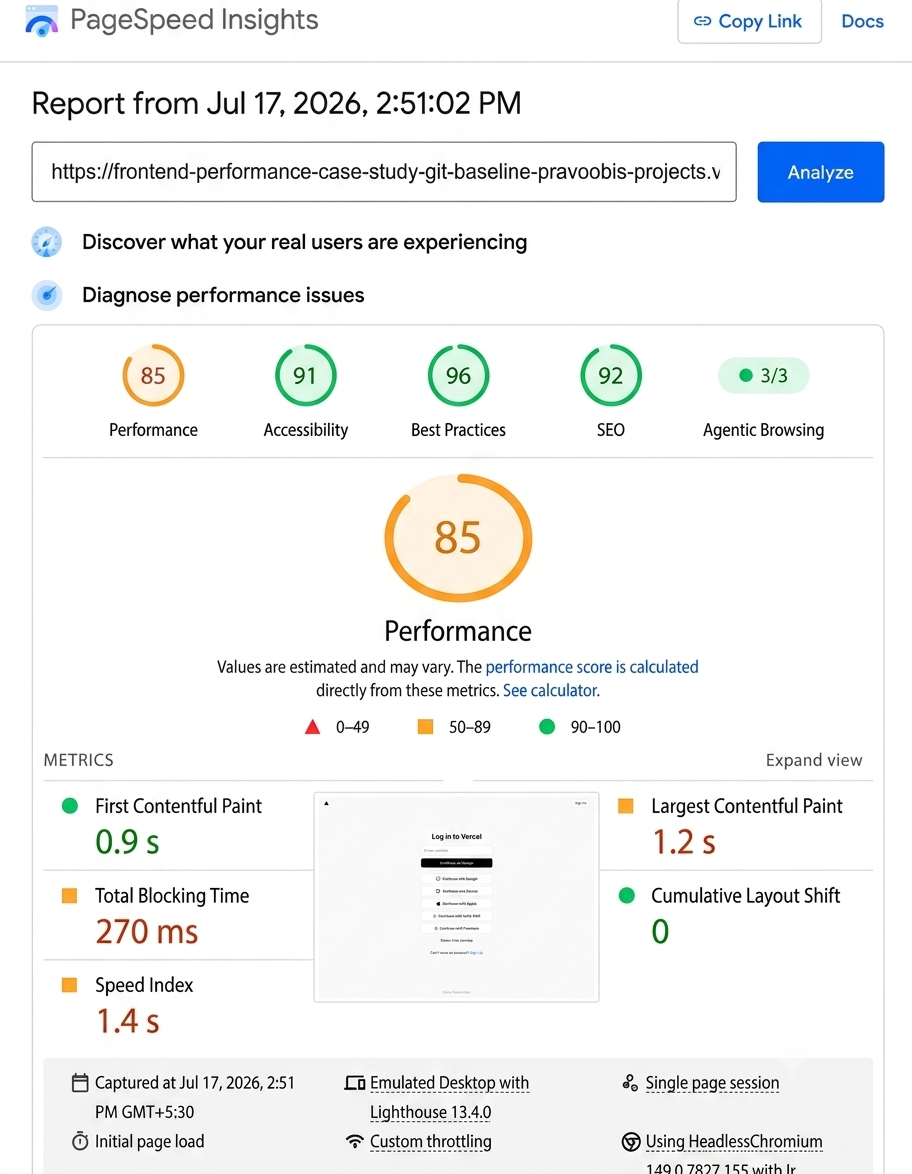
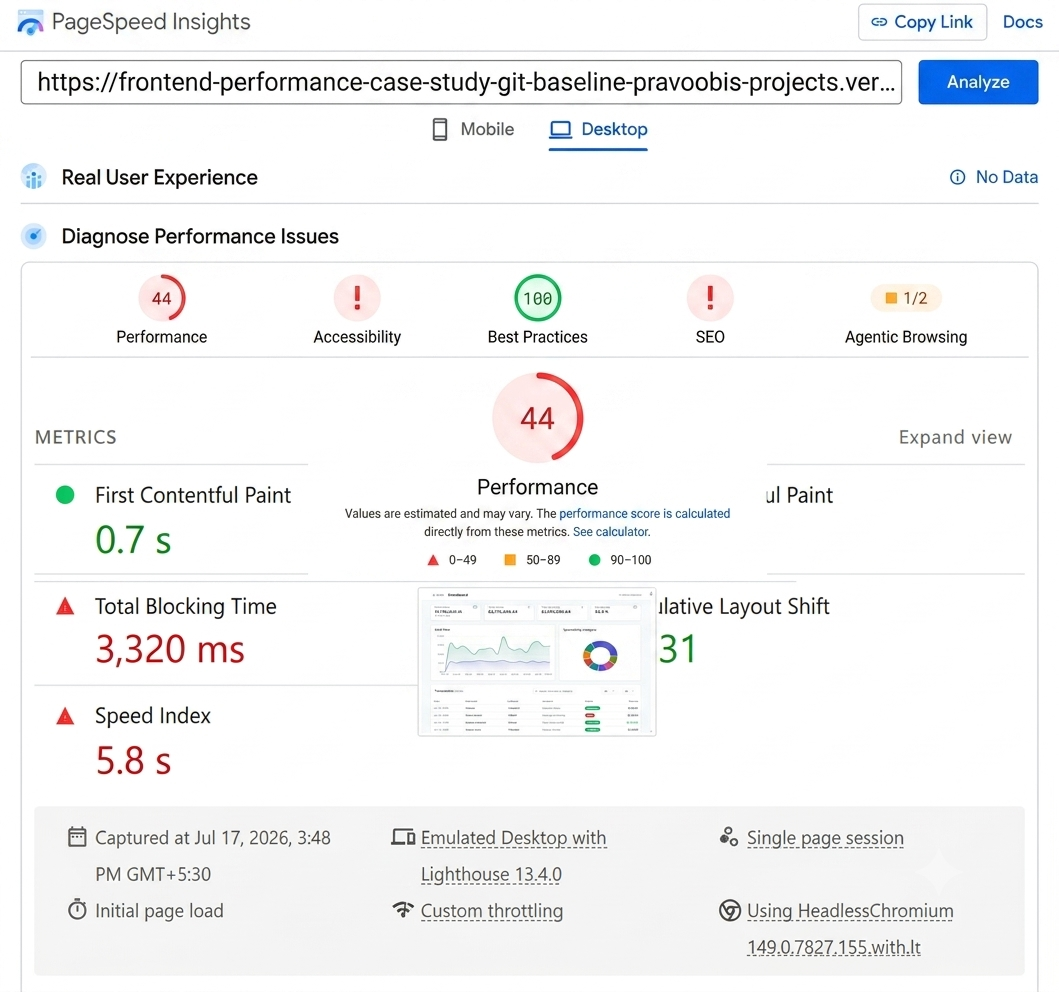
Add PageSpeed Insights screenshots for the live before/after URLs
Desktop runs from Google's infrastructure against the deployed Vercel
demos: landing 66 -> 99, dashboard 44 -> 94. Independently reproducible
by pasting the demo links into pagespeed.web.dev.

diff --git a/README.md b/README.md
@@ -37,6 +37,17 @@ Mobile Lighthouse, throttled, median of 3 runs. Before and after were measured b
 
 CLS is ~0 in both states: the baseline's undimensioned images sit below the mobile fold, so their late load never shifted visible content. Explicit dimensions via `next/image` lock that in rather than fix a measured problem.
 
+### Independently verifiable: PageSpeed Insights on the live URLs
+
+Run by Google's infrastructure (desktop preset) against the deployed Vercel URLs — anyone can reproduce these by pasting the demo links into [pagespeed.web.dev](https://pagespeed.web.dev). Desktop scores: landing **66 → 99**, dashboard **44 → 94**.
+
+| | Baseline | Optimized |
+|---|---|---|
+| **Landing** | ![PageSpeed — baseline landing: 66, LCP 15.2s](docs/screenshots/pagespeed-landing-before.png) | ![PageSpeed — optimized landing: 99, LCP 0.6s](docs/screenshots/pagespeed-landing-after.png) |
+| **Dashboard** | ![PageSpeed — baseline dashboard: 44, TBT 3,320ms](docs/screenshots/pagespeed-dashboard-before.png) | ![PageSpeed — optimized dashboard: 94](docs/screenshots/pagespeed-dashboard-after.png) |
+
+(Desktop is less punishing than the mobile-throttled runs in the tables above — even so, the baseline landing's 23MB hero pushes desktop LCP to 15.2s.)
+
 ## Stack
 
 Next.js (App Router) · TypeScript · Tailwind CSS v4 · [@practics/ui](https://www.npmjs.com/package/@practics/ui) (my own component library) · TanStack Table + Virtual + Query · Recharts · web-vitals